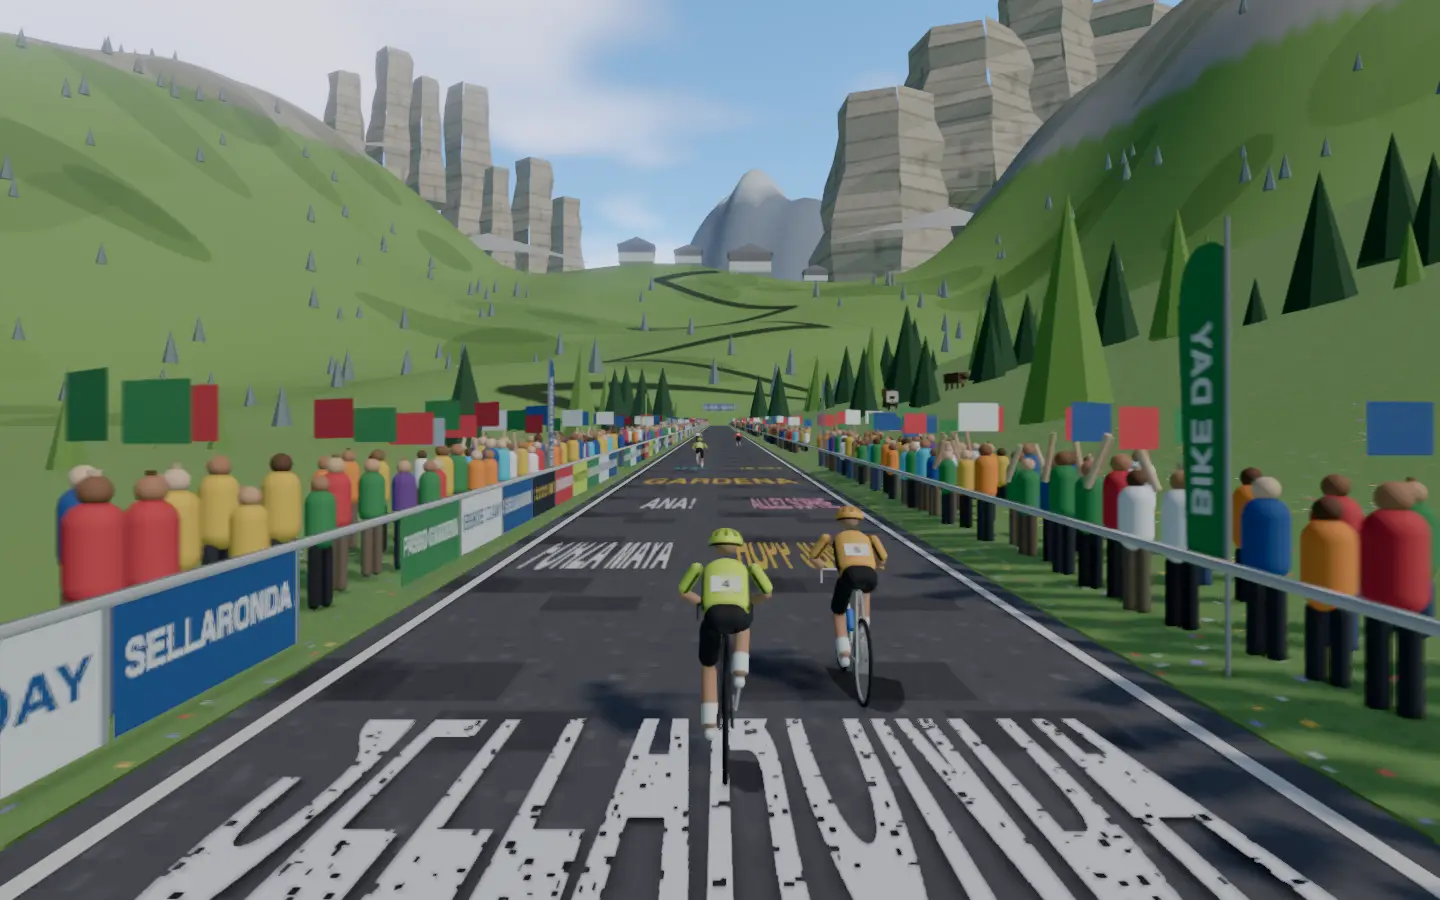
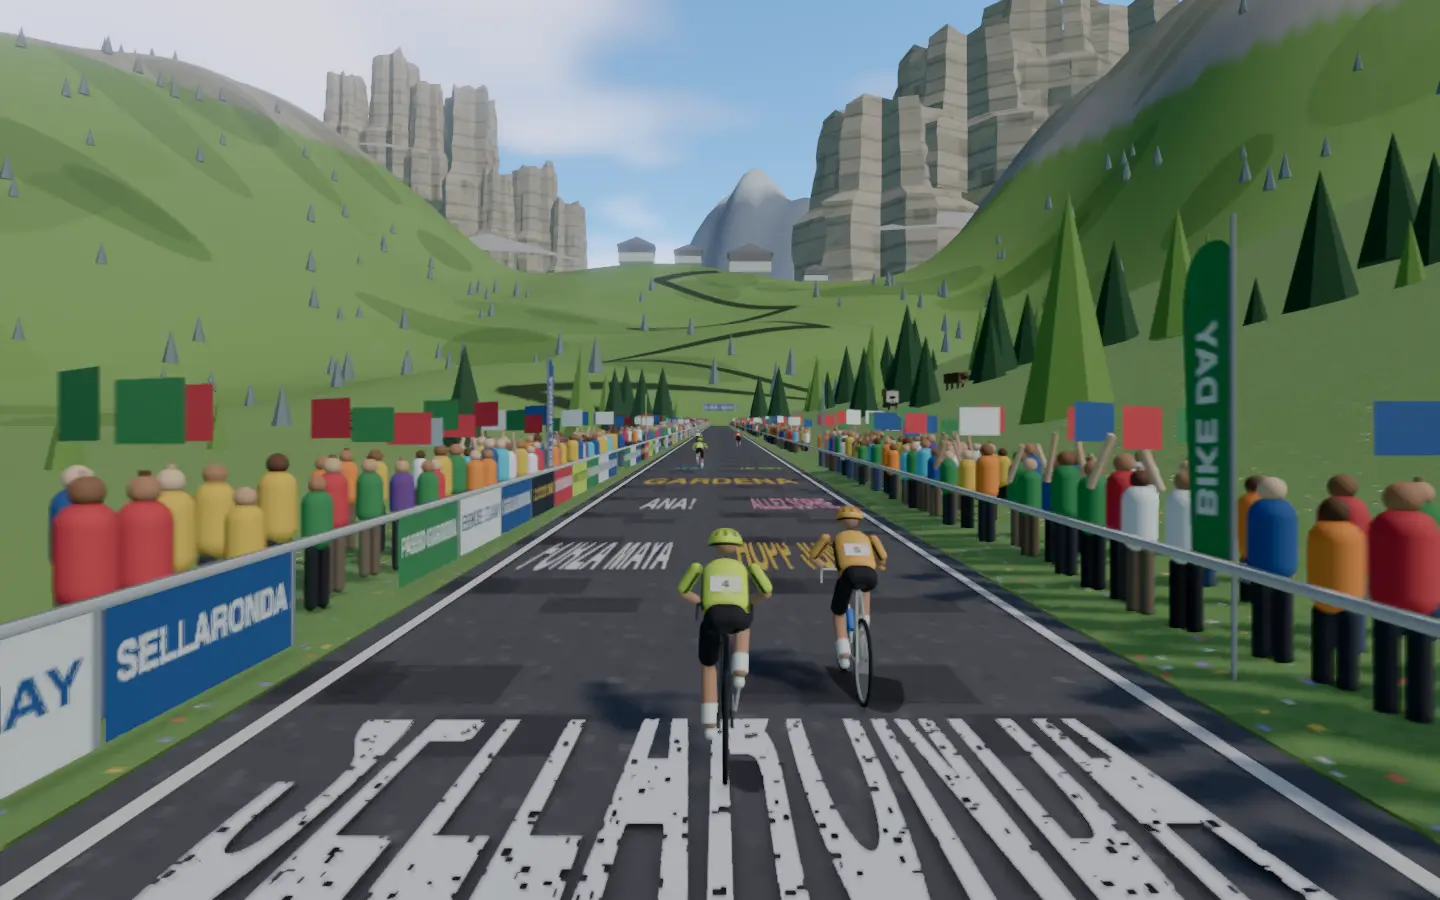
Sculpt Passo Gardena's Sella towers and Cir spires
Flute the towers with buttresses and gullies, step them back at a ledge
band, break their crowns into teeth, and stand the Sella's plateau behind.

diff --git a/frontend/projects/wattzup/src/app/core/world-gardena.ts b/frontend/projects/wattzup/src/app/core/world-gardena.ts
@@ -513,13 +513,31 @@ export class GardenaStreet implements SceneStreet {
       flatShading: true,
     });
     const crag = seeded(6751);
+    // A tower of Dolomite: fluted by buttresses and gullies running up its walls, stepped back at
+    // a ledge band partway up, its crown broken into ragged teeth.
     const tower = (x: number, z: number, wide: number, tall: number, sides: number) => {
-      const geometry = new CylinderGeometry(wide * 0.62, wide, tall, sides, 8);
+      const flutes = sides;
+      const phase = crag() * 6.3;
+      const ledge = 0.38 + crag() * 0.12;
+      const geometry = new CylinderGeometry(1, 1, tall, 22, 14);
       const position = geometry.getAttribute('position');
+      const teeth = Array.from({ length: 23 }, () => crag());
       for (let i = 0; i < position.count; i++) {
-        const k = 1 + (crag() - 0.5) * 0.28;
-        position.setX(i, position.getX(i) * k);
-        position.setZ(i, position.getZ(i) * k);
+        const px = position.getX(i);
+        const pz = position.getZ(i);
+        const t = position.getY(i) / tall + 0.5;
+        const angle = Math.atan2(pz, px);
+        const flute =
+          1 + 0.16 * Math.sin(flutes * angle + phase) + 0.07 * Math.sin(flutes * 2.3 * angle);
+        // Sheer below the ledge, set back above it, narrowing into the crown.
+        const step = t < ledge ? 1 : 0.8 - (t - ledge) * 0.25;
+        const k = wide * flute * step * (1 + (crag() - 0.5) * 0.08);
+        position.setX(i, px * k);
+        position.setZ(i, pz * k);
+        if (t > 0.99) {
+          const tooth = teeth[Math.round(((angle + Math.PI) / (2 * Math.PI)) * 22)]!;
+          position.setY(i, position.getY(i) - tooth * tall * 0.12);
+        }
       }
       geometry.computeVertexNormals();
       geometry.translate(x, slope(x, z) - 10 + tall / 2, z);
@@ -542,6 +560,27 @@ export class GardenaStreet implements SceneStreet {
         [-760, -1350, 48, 210],
       ].map(([x, z, w, t]) => tower(x!, z!, w!, t!, 5)),
     ];
+    // The Sella's plateau behind the towers: a great table of rock, walled in layered tiers.
+    const sella = heightfield(
+      this.disposables,
+      [760, -1950],
+      [1300, 700, 90, 50],
+      (x, z) => {
+        const wall = ease((x - 230) / 90) * ease((-z - 1650) / 70) * ease((1380 - x) / 120);
+        const tiers = 330 + 40 * Math.round(Math.sin(x / 160 + z / 230) * 2);
+        return wall * (tiers + 30 * Math.sin(x / 37) * Math.sin(z / 29));
+      },
+      (y) => (y > 340 ? new Color(0xeae4d6) : y > 200 ? new Color(0xd8cebc) : new Color(0xc4b8a4)),
+    );
+    h.add(
+      new Mesh(
+        sella,
+        hazedMaterial(this.disposables, haze, 0xffffff, 0.3, {
+          vertexColors: true,
+          flatShading: true,
+        }),
+      ),
+    );
     const towers = mergeGeometries(rocks.map((r) => (r.index ? r.toNonIndexed() : r)))!;
     rocks.forEach((r) => r.dispose());
     this.disposables.push(towers);

diff --git a/docs/class-worlds.md b/docs/class-worlds.md
@@ -70,7 +70,7 @@ Every class in `frontend/public/classes.json`, with its World Ride scene. Render
 | 64 | Sufferfest 20 Minute Session | Death Valley | 80% | Badwater Road runs below sea level across the floor of Death Valley in the blazing midday heat, the white salt flats of Badwater Basin glaring on the left beneath the Panamint Range and the dark Black Mountains rising on the right, toward golden dunes shimmering in the heat haze. The five-minute warm-up rolls past the salt pans at 282 feet below sea level, the half-minute and one-minute surges attack the shimmer over the flats, and the effort of two and a quarter minutes grinds toward the dunes before the two-minute cool-down spins out past the giant thermometer. |
 | 65 | 20 Minute Fat Burning Workout | North Shore, Oahu | 72% | Big-wave beaches and shrimp trucks along Kamehameha Highway. |
 | 66 | 22 Minute Strength Intervals | Bealach na Bà (concept) |  | A single-track Highland road climbing above sea lochs through heather. |
-| 67 | Progressive Efforts on the Passo Gardena | Passo Gardena | 76% | The road from Selva climbs through larch meadows to the Passo Gardena on a bright summer morning, closed to cars for the Sellaronda Bike Day, the sheer pale towers of the Sella rising on the right and the jagged spires of the Cir on the left above the hairpins to the saddle. The six-minute warm-up spins up the lower meadows past the grazing cows, the minute-and-a-half and three-minute efforts climb the hairpins beneath the Sella towers, and the four minute-and-a-half steps and the closing half-minute sprint build to the pass before the cool-down rolls over the top. |
+| 67 | Progressive Efforts on the Passo Gardena | Passo Gardena | 78% | The road from Selva climbs through larch meadows to the Passo Gardena on a bright summer morning, closed to cars for the Sellaronda Bike Day, the sheer pale towers of the Sella rising on the right and the jagged spires of the Cir on the left above the hairpins to the saddle. The six-minute warm-up spins up the lower meadows past the grazing cows, the minute-and-a-half and three-minute efforts climb the hairpins beneath the Sella towers, and the four minute-and-a-half steps and the closing half-minute sprint build to the pass before the cool-down rolls over the top. |
 | 68 | Intense Climb: Passo Campolongo | Passo Campolongo | 74% | Forested hairpins from Corvara past ski lifts to a grassy saddle. |
 | 69 | 20 Minute High Intensity Workout | Han River Parks, Seoul (concept) |  | Riverside parks and fountain-lit bridges at night. |
 | 70 | Calorie Crush | Oktoberfest, Munich (concept) |  | Beer tents, brass bands and dirndls on the Theresienwiese at festival time. |

diff --git a/docs/detailed-designs/world-ride/draw-class-scene/README.md b/docs/detailed-designs/world-ride/draw-class-scene/README.md
@@ -628,7 +628,7 @@ None.
   - the dark mountain asphalt with its patches and white edge lines, names painted on it every 8 m (FORZA MAYA, HOPP JONAS, DAI DAI and more) and every third row a slogan right across (SELLARONDA, GARDENA, 2121 M), laid by the kit's painted rows;
   - the event's barriers (SELLARONDA, BIKE DAY, PASSO GARDENA, WATTZUP, GRÖDNERJOCH, 2121 M), the kit's feather flags along them, two banners across the road (SELLARONDA BIKE DAY · PASSO GARDENA, WATTZUP · GRÖDNERJOCH 2121 M), and fans in kit and fleeces waving the Ladin and Tyrolean colours;
   - on the right the meadow (the kit's meadow, moved from Campolongo) climbing steeply, grazed by cows with brass bells in knots of four every 120 m, 22 to 42 m out where the meadow rises clear of the crowd's heads, and the brown kilometre signs counting down to the pass; on the left the meadow falling away behind a wooden fence; larches and spruces on both;
-  - ahead, as a heightfield (the kit's, moved from Death Valley): the green slope climbing 260 m to the saddle, steepening toward the top so the saddle faces the rider, with the road's hairpins painted up it, spruce groves dotted over it, the pass's hotels (white walls, dark timber storeys, steep roofs) on the saddle, the Sella's four sheer towers on the right and the Cir's comb of spires on the left in the kit's Dolomite rock (moved from Campolongo), scree fanning from their feet, and far peaks behind with snow in their gullies. Everything along the road is hidden past 218 m.
+  - ahead, as a heightfield (the kit's, moved from Death Valley): the green slope climbing 260 m to the saddle, steepening toward the top so the saddle faces the rider, with the road's hairpins painted up it, spruce groves dotted over it, the pass's hotels (white walls, dark timber storeys, steep roofs) on the saddle, the Sella's four sheer towers on the right, its layered plateau standing behind them, and the Cir's comb of spires on the left, in the kit's Dolomite rock (moved from Campolongo), each tower fluted by buttresses and gullies, stepped back at a ledge band partway up and broken into ragged teeth at its crown, scree fanning from their feet, and far peaks behind with snow in their gullies. Everything along the road is hidden past 218 m.
 
   `lay`, `place` and `setTime` recycle it along a 480 m loop.
 - **Mauna Kea (`core/world-maunakea.ts`).** For `maunakea`, the summit road late in the afternoon, far above the clouds:
